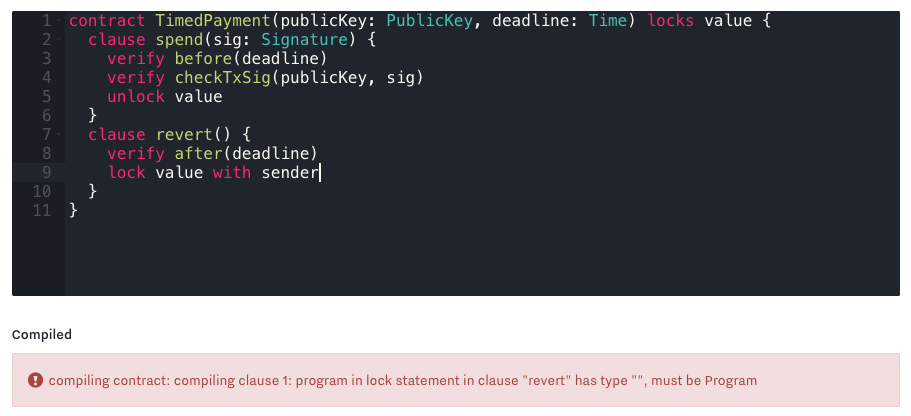
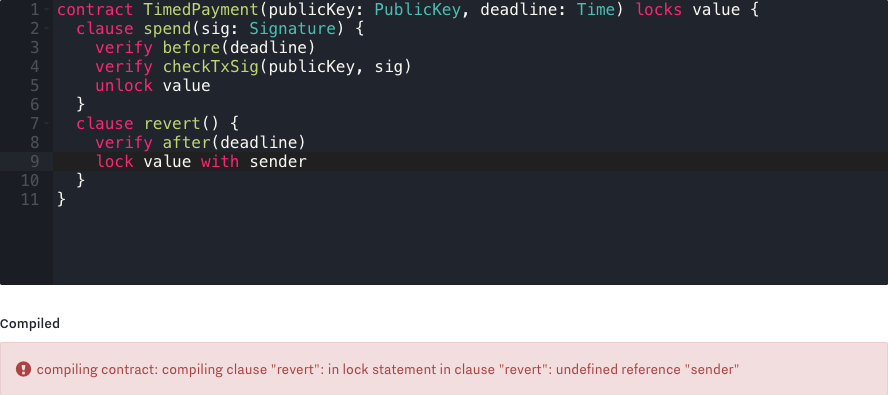
Now that some checks happen later in compilation, don't accidentally skip them in 1-clause contracts.

Changed region(s): [[0.0, 0.0, 1.0, 0.7291], [0.0, 0.7899, 1.0, 1.0], [0.0912, 0.4557, 0.1216, 0.4861]]

diff --git a/protocol/ivy/compile.go b/protocol/ivy/compile.go
@@ -148,17 +148,19 @@ func Compile(r io.Reader, args []ContractArg) (CompileResult, error) {
 }
 
 func compileContract(contract *contract, args []ContractArg, globalEnv *environ) ([]byte, map[uint32]string, error) {
+	var err error
+
 	if len(contract.clauses) == 0 {
 		return nil, nil, fmt.Errorf("empty contract")
 	}
 	env := newEnviron(globalEnv)
 	for _, p := range contract.params {
-		err := env.add(p.name, p.typ, roleContractParam)
+		err = env.add(p.name, p.typ, roleContractParam)
 		if err != nil {
 			return nil, nil, err
 		}
 	}
-	err := env.add(contract.value, valueType, roleContractValue)
+	err = env.add(contract.value, valueType, roleContractValue)
 	if err != nil {
 		return nil, nil, err
 	}
@@ -188,85 +190,87 @@ func compileContract(contract *contract, args []ContractArg, globalEnv *environ)
 		}
 	}
 
+	var prog []byte
+	var labels map[uint32]string
+
 	if len(contract.clauses) == 1 {
 		err = compileClause(b, stack, contract, env, contract.clauses[0])
 		if err != nil {
 			return nil, nil, err
 		}
-		prog, err := b.build()
-		return prog, nil, err
-	}
-
-	endTarget := b.newJumpTarget()
-	clauseTargets := make([]int, len(contract.clauses))
-	for i := range contract.clauses {
-		clauseTargets[i] = b.newJumpTarget()
-	}
-
-	if len(stack) > 0 {
-		// A clause selector is at the bottom of the stack. Roll it to the
-		// top.
-		b.addInt64(int64(len(stack)))
-		b.addOp(vm.OP_ROLL) // stack: [<clause params> <contract params> <clause selector>]
-	}
-
-	// clauses 2..N-1
-	for i := len(contract.clauses) - 1; i >= 2; i-- {
-		b.addOp(vm.OP_DUP)            // stack: [... <clause selector> <clause selector>]
-		b.addInt64(int64(i))          // stack: [... <clause selector> <clause selector> <i>]
-		b.addOp(vm.OP_NUMEQUAL)       // stack: [... <clause selector> <i == clause selector>]
-		b.addJumpIf(clauseTargets[i]) // stack: [... <clause selector>]
-	}
-
-	// clause 1
-	b.addJumpIf(clauseTargets[1]) // consumes the clause selector
-
-	// no jump needed for clause 0
-
-	for i, clause := range contract.clauses {
-		b.setJumpTarget(clauseTargets[i])
-
-		// An inner builder is used for each clause body in order to get
-		// any final VERIFY instruction left off, and the bytes of its
-		// program appended to the outer builder.
-		//
-		// (Building the clause in the outer builder, then adding a JUMP
-		// to endTarget, would cause the omitted VERIFY to be added.)
-		//
-		// This only works as long as the inner program contains no jumps,
-		// whose absolute addresses would be invalidated by this
-		// operation. Luckily we don't generate jumps in clause
-		// bodies... yet.
-		//
-		// TODO(bobg): when we _do_ generate jumps in clause bodies, we'll
-		// need a cleverer way to remove the trailing VERIFY.
-		b2 := newBuilder()
-
-		if i > 1 {
-			// Clauses 0 and 1 have no clause selector on top of the
-			// stack. Clauses 2 and later do.
-			b2.addOp(vm.OP_DROP)
+		prog, err = b.build()
+	} else {
+		endTarget := b.newJumpTarget()
+		clauseTargets := make([]int, len(contract.clauses))
+		for i := range contract.clauses {
+			clauseTargets[i] = b.newJumpTarget()
 		}
 
-		err = compileClause(b2, stack, contract, env, clause)
+		if len(stack) > 0 {
+			// A clause selector is at the bottom of the stack. Roll it to the
+			// top.
+			b.addInt64(int64(len(stack)))
+			b.addOp(vm.OP_ROLL) // stack: [<clause params> <contract params> <clause selector>]
+		}
+
+		// clauses 2..N-1
+		for i := len(contract.clauses) - 1; i >= 2; i-- {
+			b.addOp(vm.OP_DUP)            // stack: [... <clause selector> <clause selector>]
+			b.addInt64(int64(i))          // stack: [... <clause selector> <clause selector> <i>]
+			b.addOp(vm.OP_NUMEQUAL)       // stack: [... <clause selector> <i == clause selector>]
+			b.addJumpIf(clauseTargets[i]) // stack: [... <clause selector>]
+		}
+
+		// clause 1
+		b.addJumpIf(clauseTargets[1]) // consumes the clause selector
+
+		// no jump needed for clause 0
+
+		for i, clause := range contract.clauses {
+			b.setJumpTarget(clauseTargets[i])
+
+			// An inner builder is used for each clause body in order to get
+			// any final VERIFY instruction left off, and the bytes of its
+			// program appended to the outer builder.
+			//
+			// (Building the clause in the outer builder, then adding a JUMP
+			// to endTarget, would cause the omitted VERIFY to be added.)
+			//
+			// This only works as long as the inner program contains no jumps,
+			// whose absolute addresses would be invalidated by this
+			// operation. Luckily we don't generate jumps in clause
+			// bodies... yet.
+			//
+			// TODO(bobg): when we _do_ generate jumps in clause bodies, we'll
+			// need a cleverer way to remove the trailing VERIFY.
+			b2 := newBuilder()
+
+			if i > 1 {
+				// Clauses 0 and 1 have no clause selector on top of the
+				// stack. Clauses 2 and later do.
+				b2.addOp(vm.OP_DROP)
+			}
+
+			err = compileClause(b2, stack, contract, env, clause)
+			if err != nil {
+				return nil, nil, errors.Wrapf(err, "compiling clause \"%s\"", clause.name)
+			}
+			b.addFrom(b2)
+			if i < len(contract.clauses)-1 {
+				b.addJump(endTarget)
+			}
+		}
+		b.setJumpTarget(endTarget)
+		prog, err = b.build()
 		if err != nil {
-			return nil, nil, errors.Wrapf(err, "compiling clause %d", i)
+			return nil, nil, err
 		}
-		b.addFrom(b2)
-		if i < len(contract.clauses)-1 {
-			b.addJump(endTarget)
+		jumpAddrs := b.jumpAddrs()
+		labels = make(map[uint32]string)
+		labels[jumpAddrs[endTarget]] = "_end"
+		for i, targ := range clauseTargets {
+			labels[jumpAddrs[targ]] = contract.clauses[i].name
 		}
-	}
-	b.setJumpTarget(endTarget)
-	prog, err := b.build()
-	if err != nil {
-		return nil, nil, err
-	}
-	jumpAddrs := b.jumpAddrs()
-	labels := make(map[uint32]string)
-	labels[jumpAddrs[endTarget]] = "_end"
-	for i, targ := range clauseTargets {
-		labels[jumpAddrs[targ]] = contract.clauses[i].name
 	}
 
 	err = prohibitValueParams(contract)
